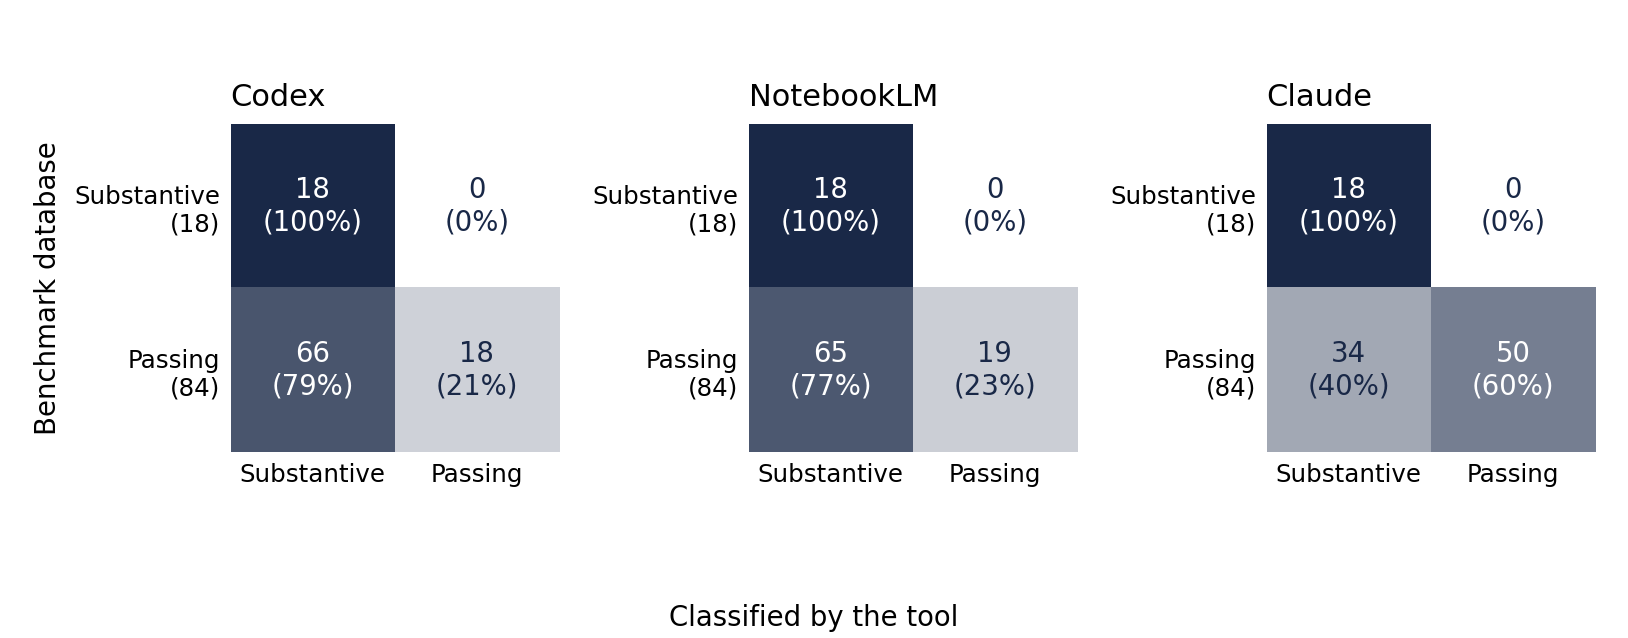
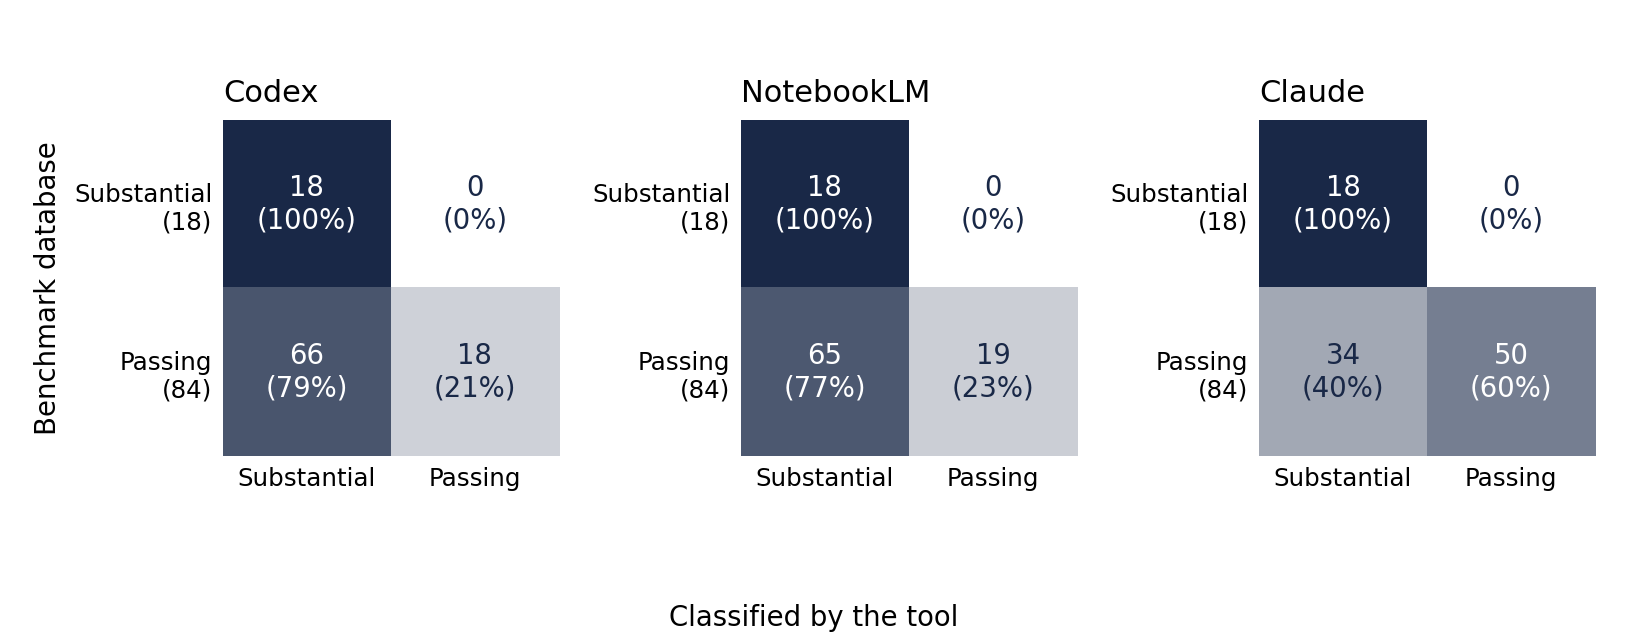
Label the classification figure 'substantial', matching the manuscript
Also correct the README's figure count (six data figures, not five).

diff --git a/README.md b/README.md
@@ -18,7 +18,7 @@ and ratings are in that experiment's `raw_data/` subfolder.
 | `Data/synthesis/` | Three raw ten-theme syntheses and anonymized per-theme reviewer ratings. | Reviewer means, citation coverage, and per-paper citation flags. |
 
 The locked prompt for each experiment is at `Data/<experiment>/prompt.md`.
-`Figures/images/` contains only the five figures in the manuscript;
+`Figures/images/` contains only the six data figures in the manuscript;
 `Figures/plot_data/` contains the values plotted in each one.
 
 The discovery benchmark is adapted from [Schultz, Lowe, and Herrerias Azcue's
